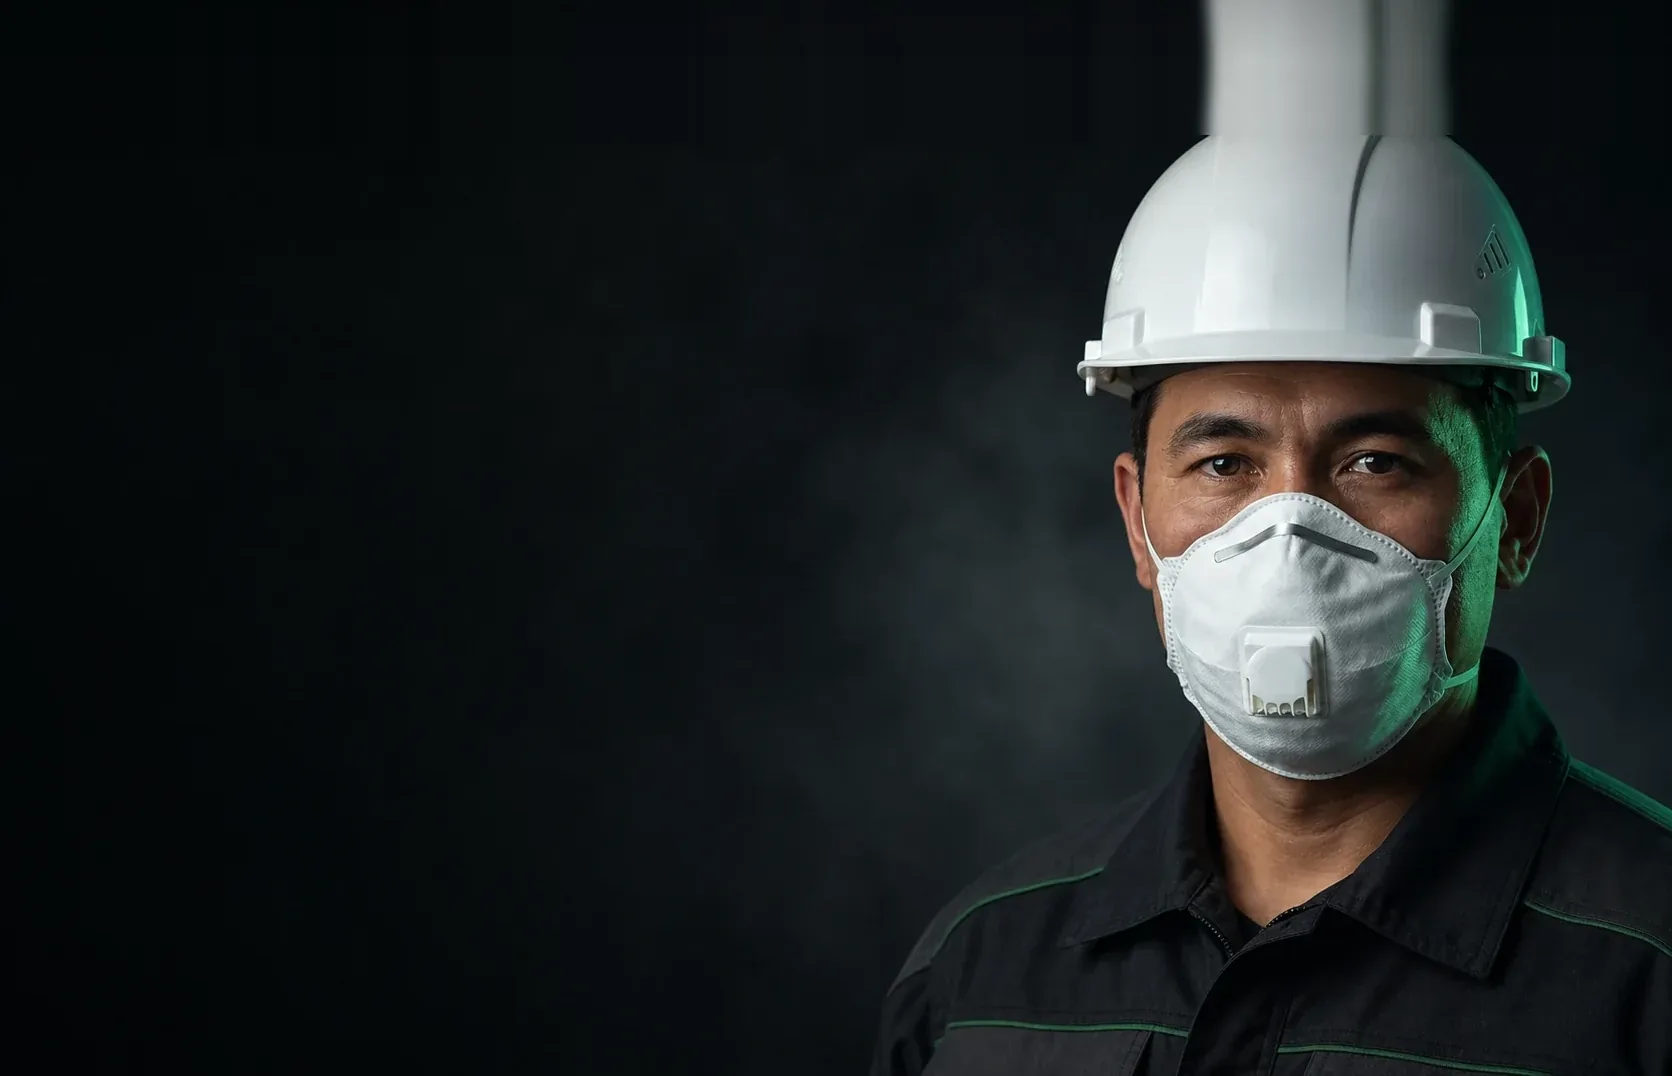
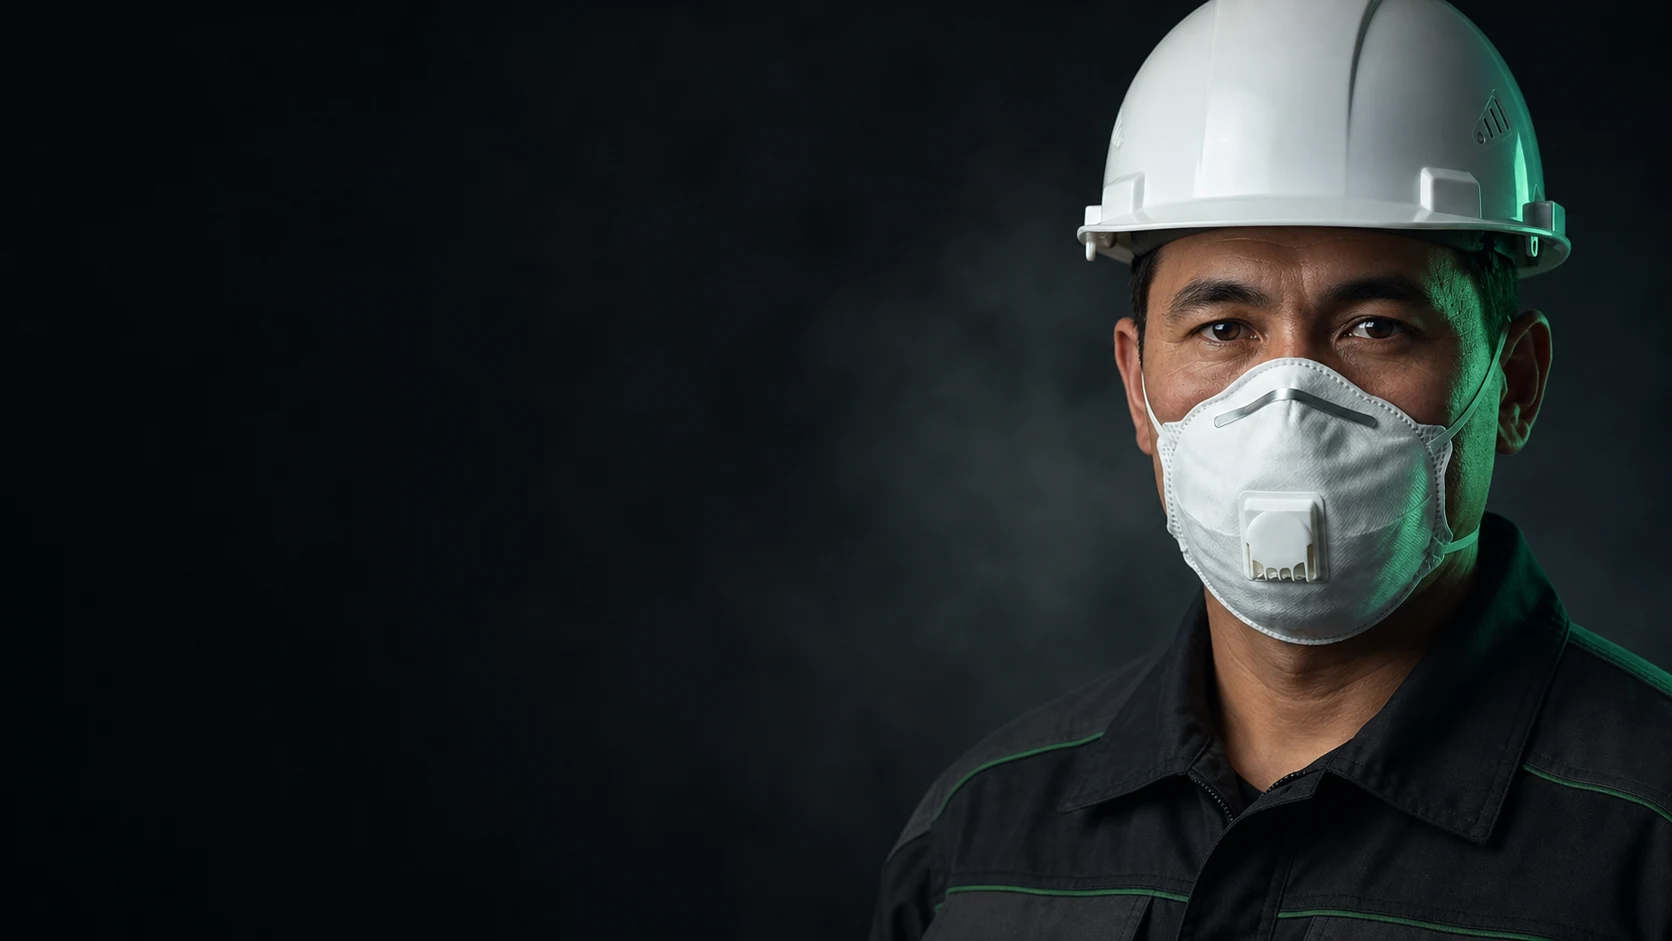
Первый экран: подлинная фотография, каску режет не файл, а кадрирование
Я дважды пытался вылечить срезанную каску дорисовкой: сначала растянул
верхнюю строку пикселей вверх - получился вертикальный след над каской,
потом дорисовал верх нейросетью. Оба раза лишнее: в исходных файлах
каска целая, с запасом сверху. Проверено на обоих кадрах.

Резало её кадрирование: на большом экране лишняя высота снималась поровну
сверху и снизу, и верхние десять пикселей уходили по каске; на телефоне
поверх этого стояло увеличение со сдвигом вверх на 6 %, снимавшее ещё
74 px. Подлинные файлы возвращены, лишнее теперь снимается снизу.
Замер на шести ширинах: сверху срезается 8 px на телефоне и ноль на
остальных.

В обязательный прогон добавлена проверка склеенных заголовков: ручной
перенос скрыт на телефоне, и без пробела перед ним слова слипались
(«СКЛАДНЫЕИ ЧАШЕОБРАЗНЫЕ»). Теперь такие места - красный пункт.

diff --git a/index.html b/index.html
@@ -278,7 +278,7 @@
   .hero-fig img{
     /* 40% по вертикали: на широких пропорциях кадр режется по высоте, и окно
        смещено вверх - каска получает воздух, дорисованный запас дыма сверху виден */
-    width:100%;height:100%;object-fit:cover;object-position:78% 40%;
+    width:100%;height:100%;object-fit:cover;object-position:78% 0%;
     filter:saturate(.7) contrast(1.05) brightness(.96);
   }
   .hero-fig::after{
@@ -350,7 +350,7 @@
       right:calc(max(var(--pad), 50vw - 720px + var(--pad)) - var(--inset));
       margin:0;
     }
-    .hero-fig img{object-position:100% 14%}
+    .hero-fig img{object-position:100% 0%}
     .hero-fig::after{background:linear-gradient(0deg,#0A0C0B 3%,rgba(10,12,11,.95) 28%,rgba(10,12,11,.38) 65%,rgba(10,12,11,.14) 100%),linear-gradient(90deg,rgba(10,12,11,.68) 0%,rgba(10,12,11,.2) 64%,rgba(10,12,11,0) 100%)}
     .hero-copy{align-self:end;width:100%;max-width:min(94%,660px)}
     .hero h1{font-size:clamp(3rem,8.6vw,5.2rem)}
@@ -364,7 +364,7 @@
     .hero > .hero-kicker{left:var(--pad);right:var(--pad)}
     /* остров во всю ширину экрана, фотография масштабируется сильнее - кадр поднят,
        иначе каска рабочего срезается верхним краем */
-    .hero-fig img{object-position:100% 12%;transform:scale(1.12) translateY(-6%);transform-origin:62% 50%}
+    .hero-fig img{object-position:100% 0%;transform:scale(1.12);transform-origin:62% 12%}
     .hero-copy{min-width:0;max-width:100%}
     .hk-full{display:none}.hk-min{display:inline}
     .hl-full{display:none}.hl-min{display:inline}
